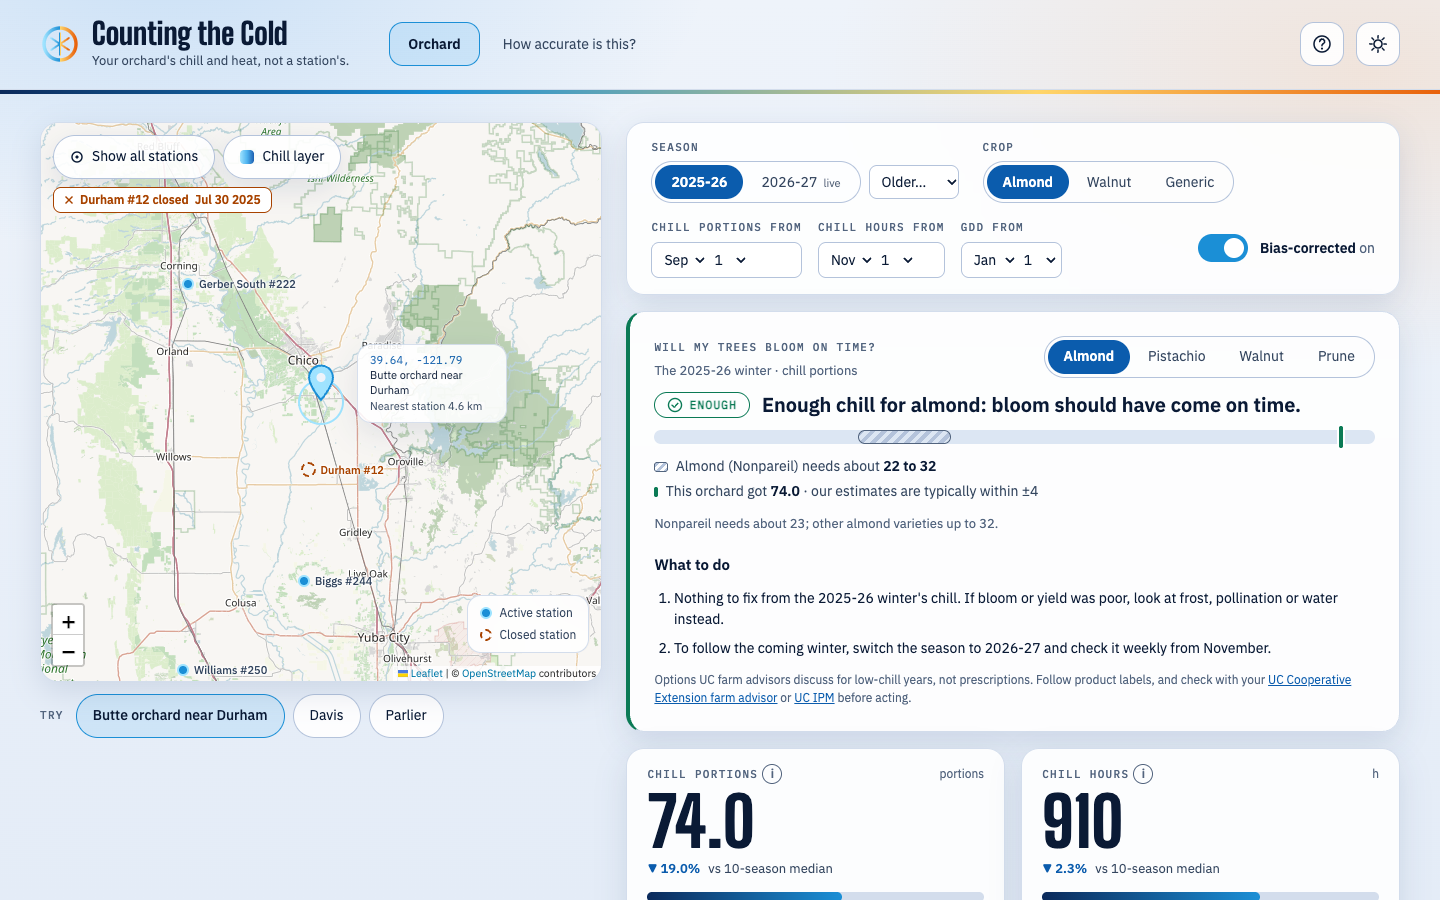
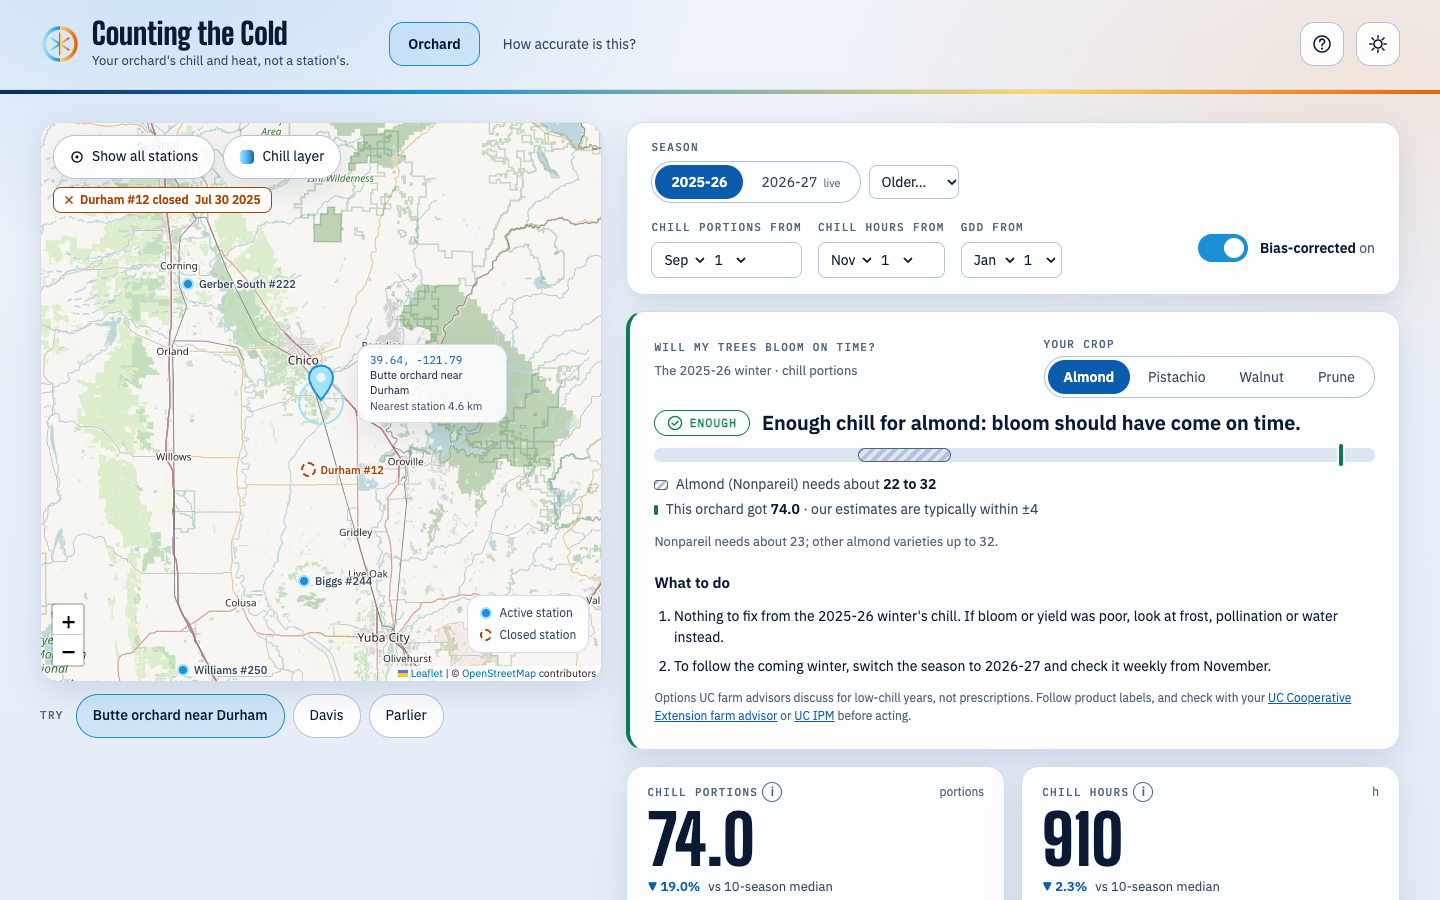
One crop picker for chill and heat; add pistachio and prune heat presets (#110)
* Heat presets for pistachio and prune

Pistachio uses UC IPM's navel orangeworm thresholds (55/94 °F, as for
almond); prune uses peach twig borer (50/88 °F). generic stays for API
callers.

* One crop picker: the bloom card's crop also sets the heat numbers

The settings bar had its own crop row (almond, walnut, generic) for the
degree-day preset, next to the bloom card's crop (almond, pistachio,
walnut, prune). Now the bloom card's "Your crop" is the only picker: it
picks the chill verdict and the heat preset together, and the choice is
remembered between visits. The app no longer fetches /api/crops.

---------

Changed region(s): [[0.4375, 0.3733, 0.9688, 1.0], [0.6875, 0.1556, 0.7812, 0.2489], [0.8125, 0.1867, 0.8438, 0.2178]]

diff --git a/frontend/src/components/BloomOutlook.tsx b/frontend/src/components/BloomOutlook.tsx
@@ -1,33 +1,22 @@
-import { useEffect, useRef, useState } from 'react'
+import { useEffect, useRef } from 'react'
 import type { PointResponse } from '../api/types'
 import { bloomOutlook, CROP_NEEDS, headline, nextSteps, statusLabel, type CropId } from '../bloomAdvice'
 import { useMediaQuery } from '../hooks/useMediaQuery'
 import { CheckIcon, WarnIcon } from './icons'
 
-const STORAGE_KEY = 'ctc-crop'
 // Below this width the map sits above the results (index.css), so a new pin's answer is off screen.
 const STACKED_QUERY = '(max-width: 900px)'
 
-function savedCrop(fallback: string): CropId {
-  try {
-    const saved = localStorage.getItem(STORAGE_KEY)
-    if (CROP_NEEDS.some((c) => c.id === saved)) return saved as CropId
-  } catch {
-    // Storage blocked (private window): fall through to the settings' crop.
-  }
-  return CROP_NEEDS.some((c) => c.id === fallback) ? (fallback as CropId) : 'almond'
-}
-
 interface Props {
   data: PointResponse
-  settingsCrop: string // the GDD preset, used as the first guess for the crop
+  crop: string // settings.crop: also picks the heat (GDD) preset
+  onCrop: (id: CropId) => void
   live: string | null // label of the season still being counted, or null when that season is shown
   revealKey: number // bumps when the user picks a new pin; on phones the card scrolls into view
 }
 
 // "Will my trees bloom on time?": the orchard's chill against the crop's need, a verdict, and what to do next.
-export default function BloomOutlook({ data, settingsCrop, live, revealKey }: Props) {
-  const [cropId, setCropId] = useState<CropId>(() => savedCrop(settingsCrop))
+export default function BloomOutlook({ data, crop: cropId, onCrop, live, revealKey }: Props) {
   const crop = CROP_NEEDS.find((c) => c.id === cropId) ?? CROP_NEEDS[0]
   const o = bloomOutlook(data, crop)
   const steps = nextSteps(o, data.season.label, live)
@@ -39,15 +28,6 @@ export default function BloomOutlook({ data, settingsCrop, live, revealKey }: Pr
     // Only a new pin should scroll, not a resize.
     // eslint-disable-next-line react-hooks/exhaustive-deps
   }, [revealKey])
-
-  const choose = (id: CropId) => {
-    setCropId(id)
-    try {
-      localStorage.setItem(STORAGE_KEY, id)
-    } catch {
-      // Not saved; the choice still applies for this visit.
-    }
-  }
 
   // The bar: 0 to a little past whichever is larger, the need or the orchard's chill.
   const top = Math.max(crop.high * 1.4, o.range ? o.range[1] : o.value) * 1.05
@@ -66,12 +46,15 @@ export default function BloomOutlook({ data, settingsCrop, live, revealKey }: Pr
             {o.mode === 'past' ? `The ${data.season.label} winter` : `This winter (${data.season.label})`} · chill portions
           </p>
         </div>
-        <div className="seg bloom-crops" role="group" aria-label="Your crop">
-          {CROP_NEEDS.map((c) => (
-            <button key={c.id} type="button" aria-pressed={c.id === crop.id} onClick={() => choose(c.id)}>
-              {c.label}
-            </button>
-          ))}
+        <div className="bloom-crop-field">
+          <span className="lbl">Your crop</span>
+          <div className="seg bloom-crops" role="group" aria-label="Your crop">
+            {CROP_NEEDS.map((c) => (
+              <button key={c.id} type="button" aria-pressed={c.id === crop.id} onClick={() => onCrop(c.id)}>
+                {c.label}
+              </button>
+            ))}
+          </div>
         </div>
       </div>
 

diff --git a/frontend/src/components/SettingsBar.tsx b/frontend/src/components/SettingsBar.tsx
@@ -1,6 +1,3 @@
-import { useEffect, useState } from 'react'
-import { FALLBACK_CROPS, fetchCrops } from '../api/client'
-import type { Crop } from '../api/types'
 import { SEASONS, type Settings } from '../settings'
 
 interface Props {
@@ -15,11 +12,6 @@ const OLDER_SEASONS = SEASONS.filter((s) => s < 2025)
 
 function seasonLabel(s: number) {
   return `${s}-${String(s + 1).slice(2)}`
-}
-
-// "Almond (navel orangeworm)" -> "Almond"
-function shortCropLabel(c: Crop) {
-  return c.label.split(/[\s(]/)[0] || c.id
 }
 
 function DateField({ label, value, onChange }: { label: string; value: string; onChange: (mmdd: string) => void }) {
@@ -50,18 +42,10 @@ function DateField({ label, value, onChange }: { label: string; value: string; o
 }
 
 export default function SettingsBar({ settings, onChange }: Props) {
-  const [crops, setCrops] = useState<Crop[]>(FALLBACK_CROPS)
-
-  useEffect(() => {
-    fetchCrops()
-      .then((list) => list.length && setCrops(list))
-      .catch(() => setCrops(FALLBACK_CROPS))
-  }, [])
-
   const olderSelected = settings.season < 2025
 
   return (
-    <div className="card settings" role="group" aria-label="Season, crop and start-date settings">
+    <div className="card settings" role="group" aria-label="Season and start-date settings">
       <div className="field">
         <span className="lbl">Season</span>
         <div className="field-row">
@@ -91,17 +75,6 @@ export default function SettingsBar({ settings, onChange }: Props) {
               </option>
             ))}
           </select>
-        </div>
-      </div>
-
-      <div className="field">
-        <span className="lbl">Crop</span>
-        <div className="seg" role="group" aria-label="Crop">
-          {crops.map((c) => (
-            <button key={c.id} type="button" aria-pressed={settings.crop === c.id} title={c.label} onClick={() => onChange({ crop: c.id })}>
-              {shortCropLabel(c)}
-            </button>
-          ))}
         </div>
       </div>
 

diff --git a/frontend/src/App.tsx b/frontend/src/App.tsx
@@ -20,7 +20,7 @@ import { inCalifornia } from './geo'
 import { usePoint } from './hooks/usePoint'
 import { useTheme } from './hooks/useTheme'
 import { firstAvailable } from './metrics'
-import { DEFAULT_SETTINGS, SEASONS, type Settings } from './settings'
+import { DEFAULT_SETTINGS, saveCrop, savedCrop, SEASONS, type Settings } from './settings'
 
 const GUIDE_KEY = 'ctc-guide-seen'
 
@@ -39,7 +39,7 @@ export default function App() {
   const { toggle: toggleTheme } = useTheme()
   const [tab, setTab] = useState<Tab>('orchard')
   const [pin, setPin] = useState<[number, number]>([DEMO_PINS[0].lat, DEMO_PINS[0].lon])
-  const [settings, setSettings] = useState<Settings>(DEFAULT_SETTINGS)
+  const [settings, setSettings] = useState<Settings>(() => ({ ...DEFAULT_SETTINGS, crop: savedCrop() }))
   const [stations, setStations] = useState<Station[]>([])
   const [chosenMetric, setMetric] = useState<Metric | null>(null) // null until a tab is clicked
   const [locateMessage, setLocateMessage] = useState<string | null>(null)
@@ -143,7 +143,11 @@ export default function App() {
               <div className={`right-stack${loading ? ' busy' : ''}`} aria-busy={loading}>
                 <BloomOutlook
                   data={data}
-                  settingsCrop={settings.crop}
+                  crop={settings.crop}
+                  onCrop={(crop) => {
+                    saveCrop(crop)
+                    setSettings((s) => ({ ...s, crop }))
+                  }}
                   live={settings.season === SEASONS[0] ? null : seasonLabel(SEASONS[0])}
                   revealKey={pinPicks}
                 />

diff --git a/frontend/src/api/client.ts b/frontend/src/api/client.ts
@@ -1,4 +1,4 @@
-import type { BotPreviewResponse, Crop, Metric, PointResponse, StationsResponse, ValidationResponse } from './types'
+import type { BotPreviewResponse, Metric, PointResponse, StationsResponse, ValidationResponse } from './types'
 import { mockGrid } from './mock/grid'
 import { MOCK_STATIONS } from './mock/stations'
 import { MOCK_VALIDATION } from './mock/validation'
@@ -80,18 +80,6 @@ export function fetchStations(): Promise<StationsResponse> {
 export function fetchValidation(): Promise<ValidationResponse> {
   if (USE_MOCK) return Promise.resolve(MOCK_VALIDATION)
   return getJson(`${API_BASE}/api/validation`)
-}
-
-// Crop presets. Mock mode (and a failed call, see SettingsBar) falls back to the three standard presets.
-export const FALLBACK_CROPS: Crop[] = [
-  { id: 'almond', label: 'Almond', base_f: 55, upper_f: 94 },
-  { id: 'walnut', label: 'Walnut', base_f: 50, upper_f: 88 },
-  { id: 'generic', label: 'Generic', base_f: 50, upper_f: null },
-]
-
-export async function fetchCrops(): Promise<Crop[]> {
-  if (USE_MOCK) return FALLBACK_CROPS
-  return (await getJson<{ crops: Crop[] }>(`${API_BASE}/api/crops`)).crops
 }
 
 // Mirrors GET /api/grid in docs/api-contract.md. Not in types.ts: that file changes only through a contract PR.

diff --git a/frontend/src/settings.ts b/frontend/src/settings.ts
@@ -18,4 +18,27 @@ export const DEFAULT_SETTINGS: Settings = {
   corrected: true,
 }
 
+const CROP_KEY = 'ctc-crop'
+// Crops the app offers: each has a bloom verdict (bloomAdvice.ts) and a heat preset (/api/crops).
+export const CROP_IDS = ['almond', 'pistachio', 'walnut', 'prune'] as const
+
+// The crop chosen on an earlier visit, if any. Storage can be blocked (private windows), so fall back quietly.
+export function savedCrop(): string {
+  try {
+    const saved = localStorage.getItem(CROP_KEY)
+    if (saved && (CROP_IDS as readonly string[]).includes(saved)) return saved
+  } catch {
+    // fall through
+  }
+  return DEFAULT_SETTINGS.crop
+}
+
+export function saveCrop(crop: string) {
+  try {
+    localStorage.setItem(CROP_KEY, crop)
+  } catch {
+    // Not remembered; the choice still applies for this visit.
+  }
+}
+
 export const SEASONS = [2026, 2025, 2024, 2023, 2022, 2021, 2020, 2019, 2018, 2017, 2016]

diff --git a/frontend/src/bloomAdvice.ts b/frontend/src/bloomAdvice.ts
@@ -1,11 +1,12 @@
 import type { PointResponse } from './api/types'
+import type { CROP_IDS } from './settings'
 
 // "Will my trees bloom on time?": compares an orchard's chill portions with what the crop needs, and turns the
 // result into plain next steps. Needs are in chill portions (Dynamic Model, counted from Sep 1), from the UC chill
 // requirement table compiled by UC Cooperative Extension (Pope; Doll, "Chill Portion Requirements for California
 // Crops") and the UCCE walnut dormancy updates.
 
-export type CropId = 'almond' | 'pistachio' | 'walnut' | 'prune'
+export type CropId = (typeof CROP_IDS)[number]
 
 export interface CropNeed {
   id: CropId

diff --git a/frontend/src/components/GettingStarted.tsx b/frontend/src/components/GettingStarted.tsx
@@ -11,7 +11,7 @@ const STEPS = [
   },
   {
     title: 'Pick your crop',
-    text: 'In "Will my trees bloom on time?", choose almond, pistachio, walnut or prune. We compare your orchard\'s winter chill with what that crop needs.',
+    text: 'In "Will my trees bloom on time?", choose almond, pistachio, walnut or prune. We compare your orchard\'s winter chill with what that crop needs, and set the heat numbers for its main pest.',
   },
   {
     title: 'Follow the steps',

diff --git a/frontend/src/index.css b/frontend/src/index.css
@@ -2288,6 +2288,12 @@ select {
   font-size: 13px;
 }
 
+.bloom-crop-field {
+  display: flex;
+  flex-direction: column;
+  gap: var(--space-1);
+}
+
 .bloom-crops {
   flex-wrap: wrap;
 }
@@ -2491,6 +2497,10 @@ select {
 @media (max-width: 600px) {
   .bloom-verdict {
     font-size: 17px;
+  }
+
+  .bloom-crop-field {
+    width: 100%;
   }
 
   .bloom-crops {

diff --git a/backend/app/calc/crops.py b/backend/app/calc/crops.py
@@ -1,7 +1,10 @@
-"""GDD presets (°F). Thresholds follow UC IPM degree-day models."""
+"""GDD presets (°F). Thresholds follow UC IPM degree-day models for each crop's key pest."""
 
 CROPS = {
     "almond": {"id": "almond", "label": "Almond (navel orangeworm)", "base_f": 55.0, "upper_f": 94.0},
+    "pistachio": {"id": "pistachio", "label": "Pistachio (navel orangeworm)", "base_f": 55.0, "upper_f": 94.0},
     "walnut": {"id": "walnut", "label": "Walnut (codling moth)", "base_f": 50.0, "upper_f": 88.0},
+    "prune": {"id": "prune", "label": "Prune (peach twig borer)", "base_f": 50.0, "upper_f": 88.0},
+    # Kept for API callers; the app offers only crops it can also give a bloom verdict for.
     "generic": {"id": "generic", "label": "Generic (base 50°F)", "base_f": 50.0, "upper_f": None},
 }

diff --git a/backend/tests/test_api.py b/backend/tests/test_api.py
@@ -68,7 +68,11 @@ def test_stations_include_closed_durham():
 
 
 def test_crops_and_validation():
-    assert any(c["id"] == "almond" for c in client.get("/api/crops").json()["crops"])
+    crops = {c["id"]: c for c in client.get("/api/crops").json()["crops"]}
+    assert {"almond", "pistachio", "walnut", "prune"} <= set(crops)
+    # UC IPM: navel orangeworm 55/94 °F (almond, pistachio); codling moth and peach twig borer 50/88 °F.
+    assert (crops["pistachio"]["base_f"], crops["pistachio"]["upper_f"]) == (55, 94)
+    assert (crops["prune"]["base_f"], crops["prune"]["upper_f"]) == (50, 88)
     assert client.get("/api/validation").status_code == 200
 
 
